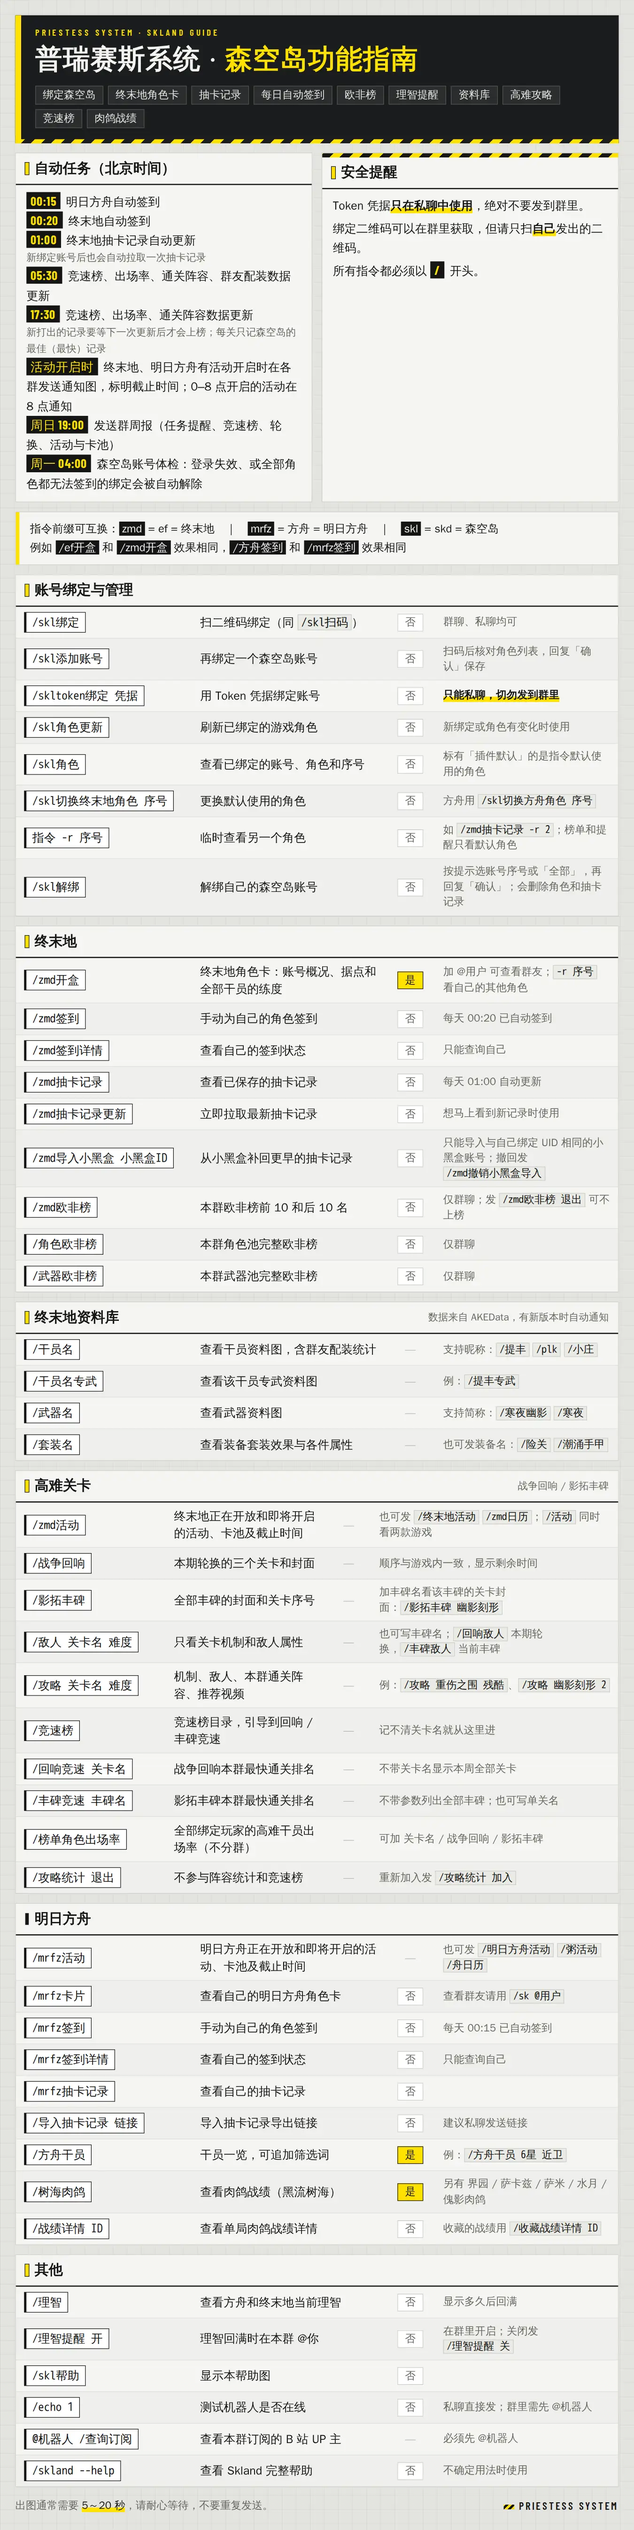
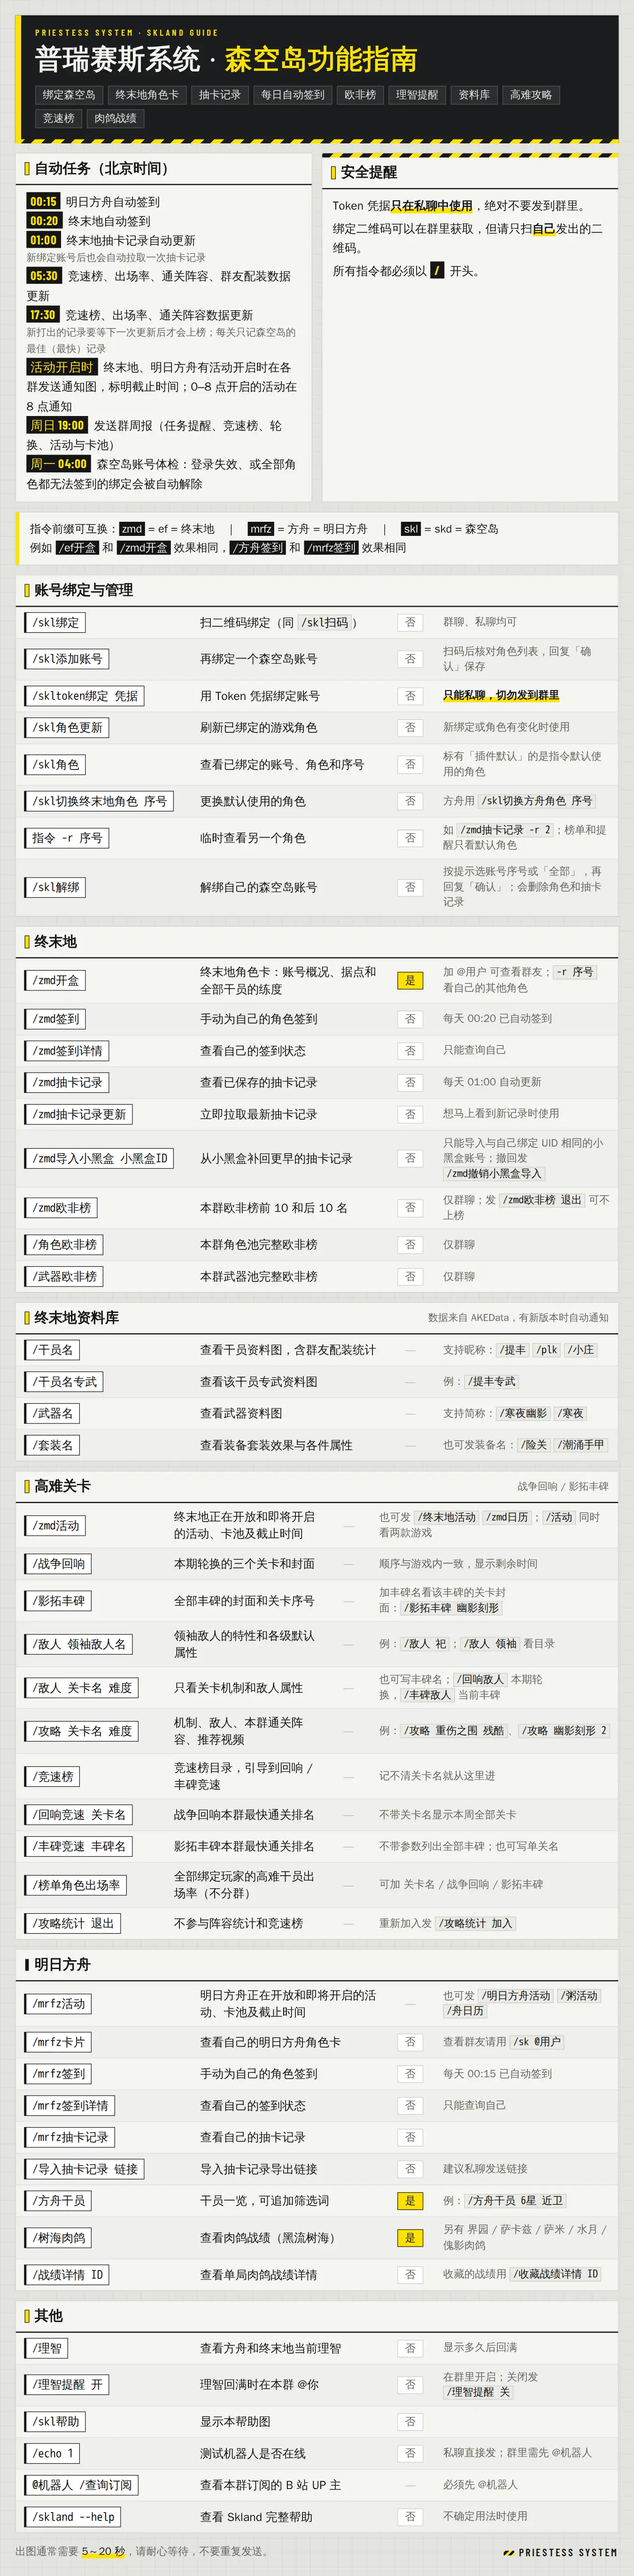
/敌人 also looks up leader enemies by name
A leader enemy's card shows its lore, traits and default attributes at every tier of its boss challenge (no stage buffs); /敌人 领袖 lists them, and stage names keep their stage-specific numbers. Wiki index schema 18 adds the leaders and the enemy ability table. Help image and README updated.

Changed region(s): [[0.0311, 0.0, 0.9644, 0.9985]]

diff --git a/plugins/skl_help/help.html b/plugins/skl_help/help.html
@@ -187,6 +187,7 @@ td.note { color: var(--ef-sub); font-size: 18px; }
       <tr><td class="cmd"><code>/zmd活动</code></td><td class="fn">终末地正在开放和即将开启的活动、卡池及截止时间</td><td class="at"><span class="na">—</span></td><td class="note">也可发 <code>/终末地活动</code> <code>/zmd日历</code>；<code>/活动</code> 同时看两款游戏</td></tr>
       <tr><td class="cmd"><code>/战争回响</code></td><td class="fn">本期轮换的三个关卡和封面</td><td class="at"><span class="na">—</span></td><td class="note">顺序与游戏内一致，显示剩余时间</td></tr>
       <tr><td class="cmd"><code>/影拓丰碑</code></td><td class="fn">全部丰碑的封面和关卡序号</td><td class="at"><span class="na">—</span></td><td class="note">加丰碑名看该丰碑的关卡封面：<code>/影拓丰碑 幽影刻形</code></td></tr>
+      <tr><td class="cmd"><code>/敌人 领袖敌人名</code></td><td class="fn">领袖敌人的特性和各级默认属性</td><td class="at"><span class="na">—</span></td><td class="note">例：<code>/敌人 祀</code>；<code>/敌人 领袖</code> 看目录</td></tr>
       <tr><td class="cmd"><code>/敌人 关卡名 难度</code></td><td class="fn">只看关卡机制和敌人属性</td><td class="at"><span class="na">—</span></td><td class="note">也可写丰碑名；<code>/回响敌人</code> 本期轮换，<code>/丰碑敌人</code> 当前丰碑</td></tr>
       <tr><td class="cmd"><code>/攻略 关卡名 难度</code></td><td class="fn">机制、敌人、本群通关阵容、推荐视频</td><td class="at"><span class="na">—</span></td><td class="note">例：<code>/攻略 重伤之围 残酷</code>、<code>/攻略 幽影刻形 2</code></td></tr>
       <tr><td class="cmd"><code>/竞速榜</code></td><td class="fn">竞速榜目录，引导到回响 / 丰碑竞速</td><td class="at"><span class="na">—</span></td><td class="note">记不清关卡名就从这里进</td></tr>

diff --git a/plugins/endfield_wiki/data.py b/plugins/endfield_wiki/data.py
@@ -56,6 +56,7 @@ TABLES = (
     "EnemyTemplateDisplayInfoTable",
     "EnemyTable",
     "EnemyAttributeTemplateTable",
+    "EnemyAbilityDescTable",
     "ActivityTable",
     "GachaCharPoolTable",
     "GachaWeaponPoolTable",
@@ -67,7 +68,7 @@ TABLES = (
     "ActivityWeeklyTaskTable",
     "ActivityWeeklyTaskMileStoneTable",
 )
-INDEX_SCHEMA = 17  # bump to force a rebuild when the index layout changes
+INDEX_SCHEMA = 18  # bump to force a rebuild when the index layout changes (18: leader enemies)
 # Enemy resistance attribute ids (AttributeShowConfigTable), in the in-game display order.
 ENEMY_RESISTANCES = ((94, "物理"), (98, "灼热"), (97, "电磁"), (96, "寒冷"), (95, "自然"), (99, "超域"))
 TOWER_DIFFICULTIES = {"1": "普通", "2": "困难", "3": "残酷"}
@@ -502,6 +503,7 @@ def build_index(table_dir: Path, version: dict, out_file: Path) -> dict[str, int
         "equip_sets": build_equip_sets(load, text, maps),
         "equip_items": build_equip_items(load, text, maps),
         "endgame": build_endgame(load, text, maps, table_dir),
+        "leaders": build_leaders(load, text),
         "calendar": build_calendar(load, text),
         "version": version.get("id", ""),
         "published_at": version.get("publishedAt", ""),
@@ -838,6 +840,47 @@ def enemy_stats(row: dict, templates: dict, level: int, effects: list[tuple[list
     stats = {key: round(modified(base.get(attr, 0.0), modifiers, attr)) for attr, key in ((1, "hp"), (2, "atk"), (3, "def"), (20, "poise"))}
     stats["res"] = [[label, value] for attr, label in ENEMY_RESISTANCES if (value := round(modified(base.get(attr, 0.0), modifiers, attr)))]
     return stats
+
+
+LEADER_TYPE = 2  # EnemyTemplateDisplayInfoTable.displayType of 领袖敌人 (DisplayEnemyTypeTable)
+BOSS_CHALLENGE = "dungeon_bossrush"  # 危境遗影 / 延影 / 祸影 / 狂影: one dungeon per tier, enemyLevels gives the tier's level
+
+
+def build_leaders(load, text) -> list[dict]:
+    """Every 领袖敌人 with its traits and its default attributes at the level of each tier of its boss challenge.
+
+    Default means the enemy's own attribute template at that level, as the AKEData enemy page
+    shows it; what a stage adds on top (spawner buffs) belongs to /敌人 关卡名. Born buffs of
+    these enemies carry no attribute modifiers (checked 1.6.3). An enemy without a challenge of
+    its own (a phase or a part of another fight) is shown at STAT_LEVEL.
+    """
+    displays, rows, templates = load("EnemyTemplateDisplayInfoTable"), load("EnemyTable"), load("EnemyAttributeTemplateTable")
+    abilities, dungeons = load("EnemyAbilityDescTable"), load("DungeonTable")
+    template_of = {enemy_id: row.get("templateId") or enemy_id for enemy_id, row in rows.items()}
+    tiers: dict[str, list[tuple[str, dict, int]]] = {}
+    for dungeon_id, dungeon in sorted(dungeons.items()):
+        if dungeon.get("dungeonCategory") != BOSS_CHALLENGE:
+            continue
+        for enemy_id, level in zip(dungeon.get("enemyIds") or [], dungeon.get("enemyLevels") or []):
+            tiers.setdefault(template_of.get(enemy_id, enemy_id), []).append((dungeon_id, dungeon, int(level)))
+    leaders = []
+    for template, display in displays.items():
+        if display.get("displayType") != LEADER_TYPE:
+            continue
+        row = rows.get(template) or {"attrTemplateId": template}
+        levels = [
+            {"tier": text(d.get("dungeonLevelDesc")), "stage": text(d.get("dungeonName")), "level": level, **enemy_stats(row, templates, level)}
+            for _, d, level in tiers.get(template, [])
+        ] or [{"tier": "", "stage": "", "level": STAT_LEVEL, **enemy_stats(row, templates, STAT_LEVEL)}]
+        leaders.append({
+            "id": template,
+            "name": text(display.get("name")),
+            "desc": text(display.get("description")),
+            "traits": [t for a in display.get("abilityDescIds") or [] if (t := text((abilities.get(a) or {}).get("description")))],
+            "challenge": bool(tiers.get(template)),
+            "levels": levels,
+        })
+    return leaders
 
 
 def stage_cover_url(group: dict) -> str:

diff --git a/plugins/endfield_guide/stages.py b/plugins/endfield_guide/stages.py
@@ -198,6 +198,16 @@ td.rs b { font-family: var(--ef-num); font-weight: 700; font-size: 17px; color: 
 .key { font-weight: 700; color: var(--ef-ink); box-shadow: inset 0 -.45em 0 var(--ef-yellow); }
 .term { font-weight: 700; color: var(--ef-ink); border-bottom: 1px dashed var(--ef-ink); }
 .info { color: var(--ef-sub); }
+.boss { display: flex; gap: 16px; margin-top: 16px; align-items: stretch; }
+.boss .face { flex: none; width: 230px; background: var(--ef-dark); border: 1px solid var(--ef-line); border-bottom: 3px solid var(--ef-yellow); }
+.boss .face img, .boss .face .ph { display: block; width: 100%%; aspect-ratio: 1; object-fit: contain; }
+.boss .about { flex: 1; min-width: 0; margin-top: 0; }
+.boss .lore { padding: 12px 16px; font-size: 15px; line-height: 1.75; color: var(--ef-sub); border-bottom: 1px solid var(--ef-line); }
+.trait { display: flex; gap: 12px; padding: 10px 16px; border-bottom: 1px solid var(--ef-line-2); font-size: 16px; line-height: 1.7; }
+.trait:last-child { border-bottom: 0; }
+.trait .no { margin-top: 2px; }
+td.tr { font-weight: 900; font-size: 17px; }
+td.sg { color: var(--ef-sub); }
 """ + NOTES_CSS
 
 WIDTH = 1100
@@ -387,6 +397,39 @@ def enemies_html(theme, kicker: str, title: str, chips: str, groups: list[dict],
         ENEMY_NOTES,
         "数值怎么读",
     )
+
+
+def leader_html(theme, leader: dict, icon: str, version: str) -> str:
+    """A 领袖敌人: lore, traits and its default attributes at each tier of its 危境 challenge."""
+    rows = []
+    for no, lv in enumerate(leader["levels"]):
+        rows.append(
+            f'<tr class="{"top" if not no else ""}"><td class="tr">{escape(lv["tier"] or "—")}</td><td class="sg">{escape(lv["stage"] or "没有专属挑战")}</td>'
+            f'<td class="lv">Lv{lv["level"]}</td><td class="num">{lv.get("hp", 0):,}</td><td class="num">{lv.get("atk", 0):,}</td>'
+            f'<td class="num">{lv.get("poise", 0):,}</td><td class="rs">{res_html(lv)}</td></tr>'
+        )
+    head = (
+        '<colgroup><col style="width:84px"><col style="width:230px"><col class="c-lv"><col class="c-num"><col class="c-num"><col style="width:110px"><col></colgroup>'
+        '<tr><th>难度</th><th>挑战</th><th>等级</th><th class="num">生命值</th><th class="num">攻击力</th><th class="num">失衡值上限</th><th>抗性</th></tr>'
+    )
+    traits = "".join(f'<div class="trait"><span class="no">{n}</span><div>{escape(t)}</div></div>' for n, t in enumerate(leader["traits"], 1))
+    lore = f'<div class="lore">{escape(leader["desc"])}</div>' if leader["desc"] else ""
+    defense = {lv.get("def") for lv in leader["levels"]}
+    notes = ["默认属性：敌人自身在该等级的数值，不含任何关卡加成"]
+    if len(defense) == 1:
+        notes.append(f"防御力均为 {defense.pop()}")
+    if not leader["challenge"]:
+        notes.append(f"这个敌人没有自己的危境挑战（多为其他战斗的一部分），按 Lv{leader['levels'][0]['level']} 显示")
+    notes.append("在战争回响、影拓丰碑里的数值会被关卡加成改变，请发 /敌人 关卡名")
+    chips = '<span class="live">领袖敌人</span>' + (f'<span>危境挑战 · 共 {len(leader["levels"])} 级</span>' if leader["challenge"] else "")
+    body = (
+        f'<div class="boss"><div class="face">{_img(icon, PLACEHOLDER)}</div>'
+        f'<div class="ef-sec about"><h3>敌人特性</h3>{lore}{traits or '<div class="trait dim">暂无特性说明</div>'}</div></div>'
+        f'<div class="ef-sec"><h3>各级属性</h3><table>{head}{"".join(rows)}</table></div>'
+        f'<div class="note">{"；".join(notes)}</div>'
+    )
+    return _page(theme, theme.head("Arknights: Endfield · Leader Enemy", escape(leader["name"]), chips), body,
+                 f"敌人数据 AKEData · 数据版本 {_version(version)}", ENEMY_NOTES, "数值怎么读")
 
 
 def _version(version: str) -> str:

diff --git a/plugins/endfield_guide/__init__.py b/plugins/endfield_guide/__init__.py
@@ -78,6 +78,8 @@ STAGE_NUMBER = re.compile(r"^第?(\d{1,2})关?$")  # "2" / "第2关": a stage of
 ROTATION_WORDS = ("战争回响", "回响", "本周", "本期")
 MONUMENT_WORDS = ("影拓丰碑", "丰碑")
 ENEMY_USAGE = (
+    "/敌人 领袖敌人名　该敌人的特性和各级默认属性，例：/敌人 祀、/敌人 罗丹\n"
+    "/敌人 领袖　领袖敌人目录\n\n"
     "只看关卡机制和敌人属性（不含通关阵容和视频）\n"
     "/敌人 关卡名 [难度]　例：/敌人 暗曜白霆、/敌人 重伤之围 残酷\n"
     "/敌人 丰碑名　整个丰碑的全部关卡，例：/敌人 幽影刻形\n"
@@ -107,6 +109,40 @@ def _endgame() -> dict:
     """The stage index, with 影拓丰碑 in the game's order (series cover and stage numbers attached)."""
     loaded = wiki._resolver()
     return stages.ordered(loaded[0].get("endgame", {}) if loaded else {}, echo_store.layout())
+
+
+def _leaders() -> list[dict]:
+    loaded = wiki._resolver()
+    return loaded[0].get("leaders", []) if loaded else []
+
+
+LEADER_LIST_WORDS = {"领袖", "领袖敌人", "目录", "列表"}
+
+
+def _leader(query: str) -> tuple[str, object] | None:
+    """('leader', entry) | ('candidates', [names]) | None. Exact name first, then a name containing the query."""
+    leaders, q = _leaders(), normalize(query)
+    if not q:
+        return None
+    named = [(normalize(l["name"]), l) for l in leaders]
+    found = [l for n, l in named if n == q] or ([l for n, l in named if q in n] if len(q) >= 2 else [])
+    names = list(dict.fromkeys(l["name"] for l in found))
+    if len(names) > 1:
+        return "candidates", names
+    if found:  # one name; two entries of it (白垩界卫) -> the one with its own challenge
+        return "leader", max(found, key=lambda l: l["challenge"])
+    return None
+
+
+def _leader_list() -> str:
+    lines, with_challenge = [], {l["name"] for l in _leaders() if l["challenge"]}
+    for l in sorted(_leaders(), key=lambda l: (not l["challenge"], l["name"])):
+        if not l["challenge"] and l["name"] in with_challenge:
+            continue  # 白垩界卫 has a second, challenge-less form; /敌人 shows the one with the challenge
+        lvs = l["levels"]
+        span = f"{lvs[0]['tier']}～{lvs[-1]['tier']}　Lv{lvs[0]['level']}～{lvs[-1]['level']}" if l["challenge"] else "无专属挑战"
+        lines.append(f"· {l['name']}　{span}")
+    return "领袖敌人目录（发 /敌人 名字 查看特性和各级属性）\n" + "\n".join(lines)
 
 
 def _version() -> str:
@@ -321,6 +357,19 @@ async def _(arg: Message = CommandArg(), command: tuple[str, ...] = Command()) -
     query = query or {"回响敌人": "战争回响", "丰碑敌人": "影拓丰碑"}.get(command[0], "")
     if not query:
         await enemy.finish(ENEMY_USAGE)
+    if query in LEADER_LIST_WORDS:
+        await enemy.finish(_leader_list() if _leaders() else "领袖敌人数据尚未同步，请稍后再试")
+    if command[0] == "敌人" and (leader := _leader(query)):
+        if leader[0] == "candidates":
+            await enemy.finish(f"找到多个领袖敌人：{'、'.join(leader[1])}\n请输入更完整的名字")
+        entry = leader[1]
+
+        async def build_leader() -> str:
+            icon = await wiki._cached_image(wiki_data.enemy_icon_url(entry["id"]), f"{entry['id']}.png")
+            return stages.leader_html(ef_theme, entry, icon, _version())
+
+        await _send_page(enemy, build_leader, "敌人资料图生成失败，请稍后再试")
+        return
     series = None
     if query in ROTATION_WORDS:
         current = _rotation(endgame)

diff --git a/README.md b/README.md
@@ -278,6 +278,7 @@ NapCat 以反向 WebSocket 客户端连入。动态推送可另外搭配
 |---|---|
 | `/战争回响` | 本期轮换的关卡、封面与剩余时间 |
 | `/影拓丰碑 [丰碑名]` | 全部丰碑的封面与关卡序号；带丰碑名时显示该丰碑各关的封面 |
+| `/敌人 领袖敌人名` | 领袖敌人的特性与各级（危境挑战一级起）默认属性；`/敌人 领袖` 为目录 |
 | `/敌人 关卡名或丰碑名 [序号] [难度]` | 只看关卡机制与敌人属性；`/回响敌人` 为本期轮换，`/丰碑敌人` 为当前丰碑 |
 | `/攻略 关卡名 [难度]` | 机制、敌人数值、通关阵容、推荐视频；也可写 `/攻略 丰碑名 序号` |
 | `/竞速榜` | 竞速榜目录 |
